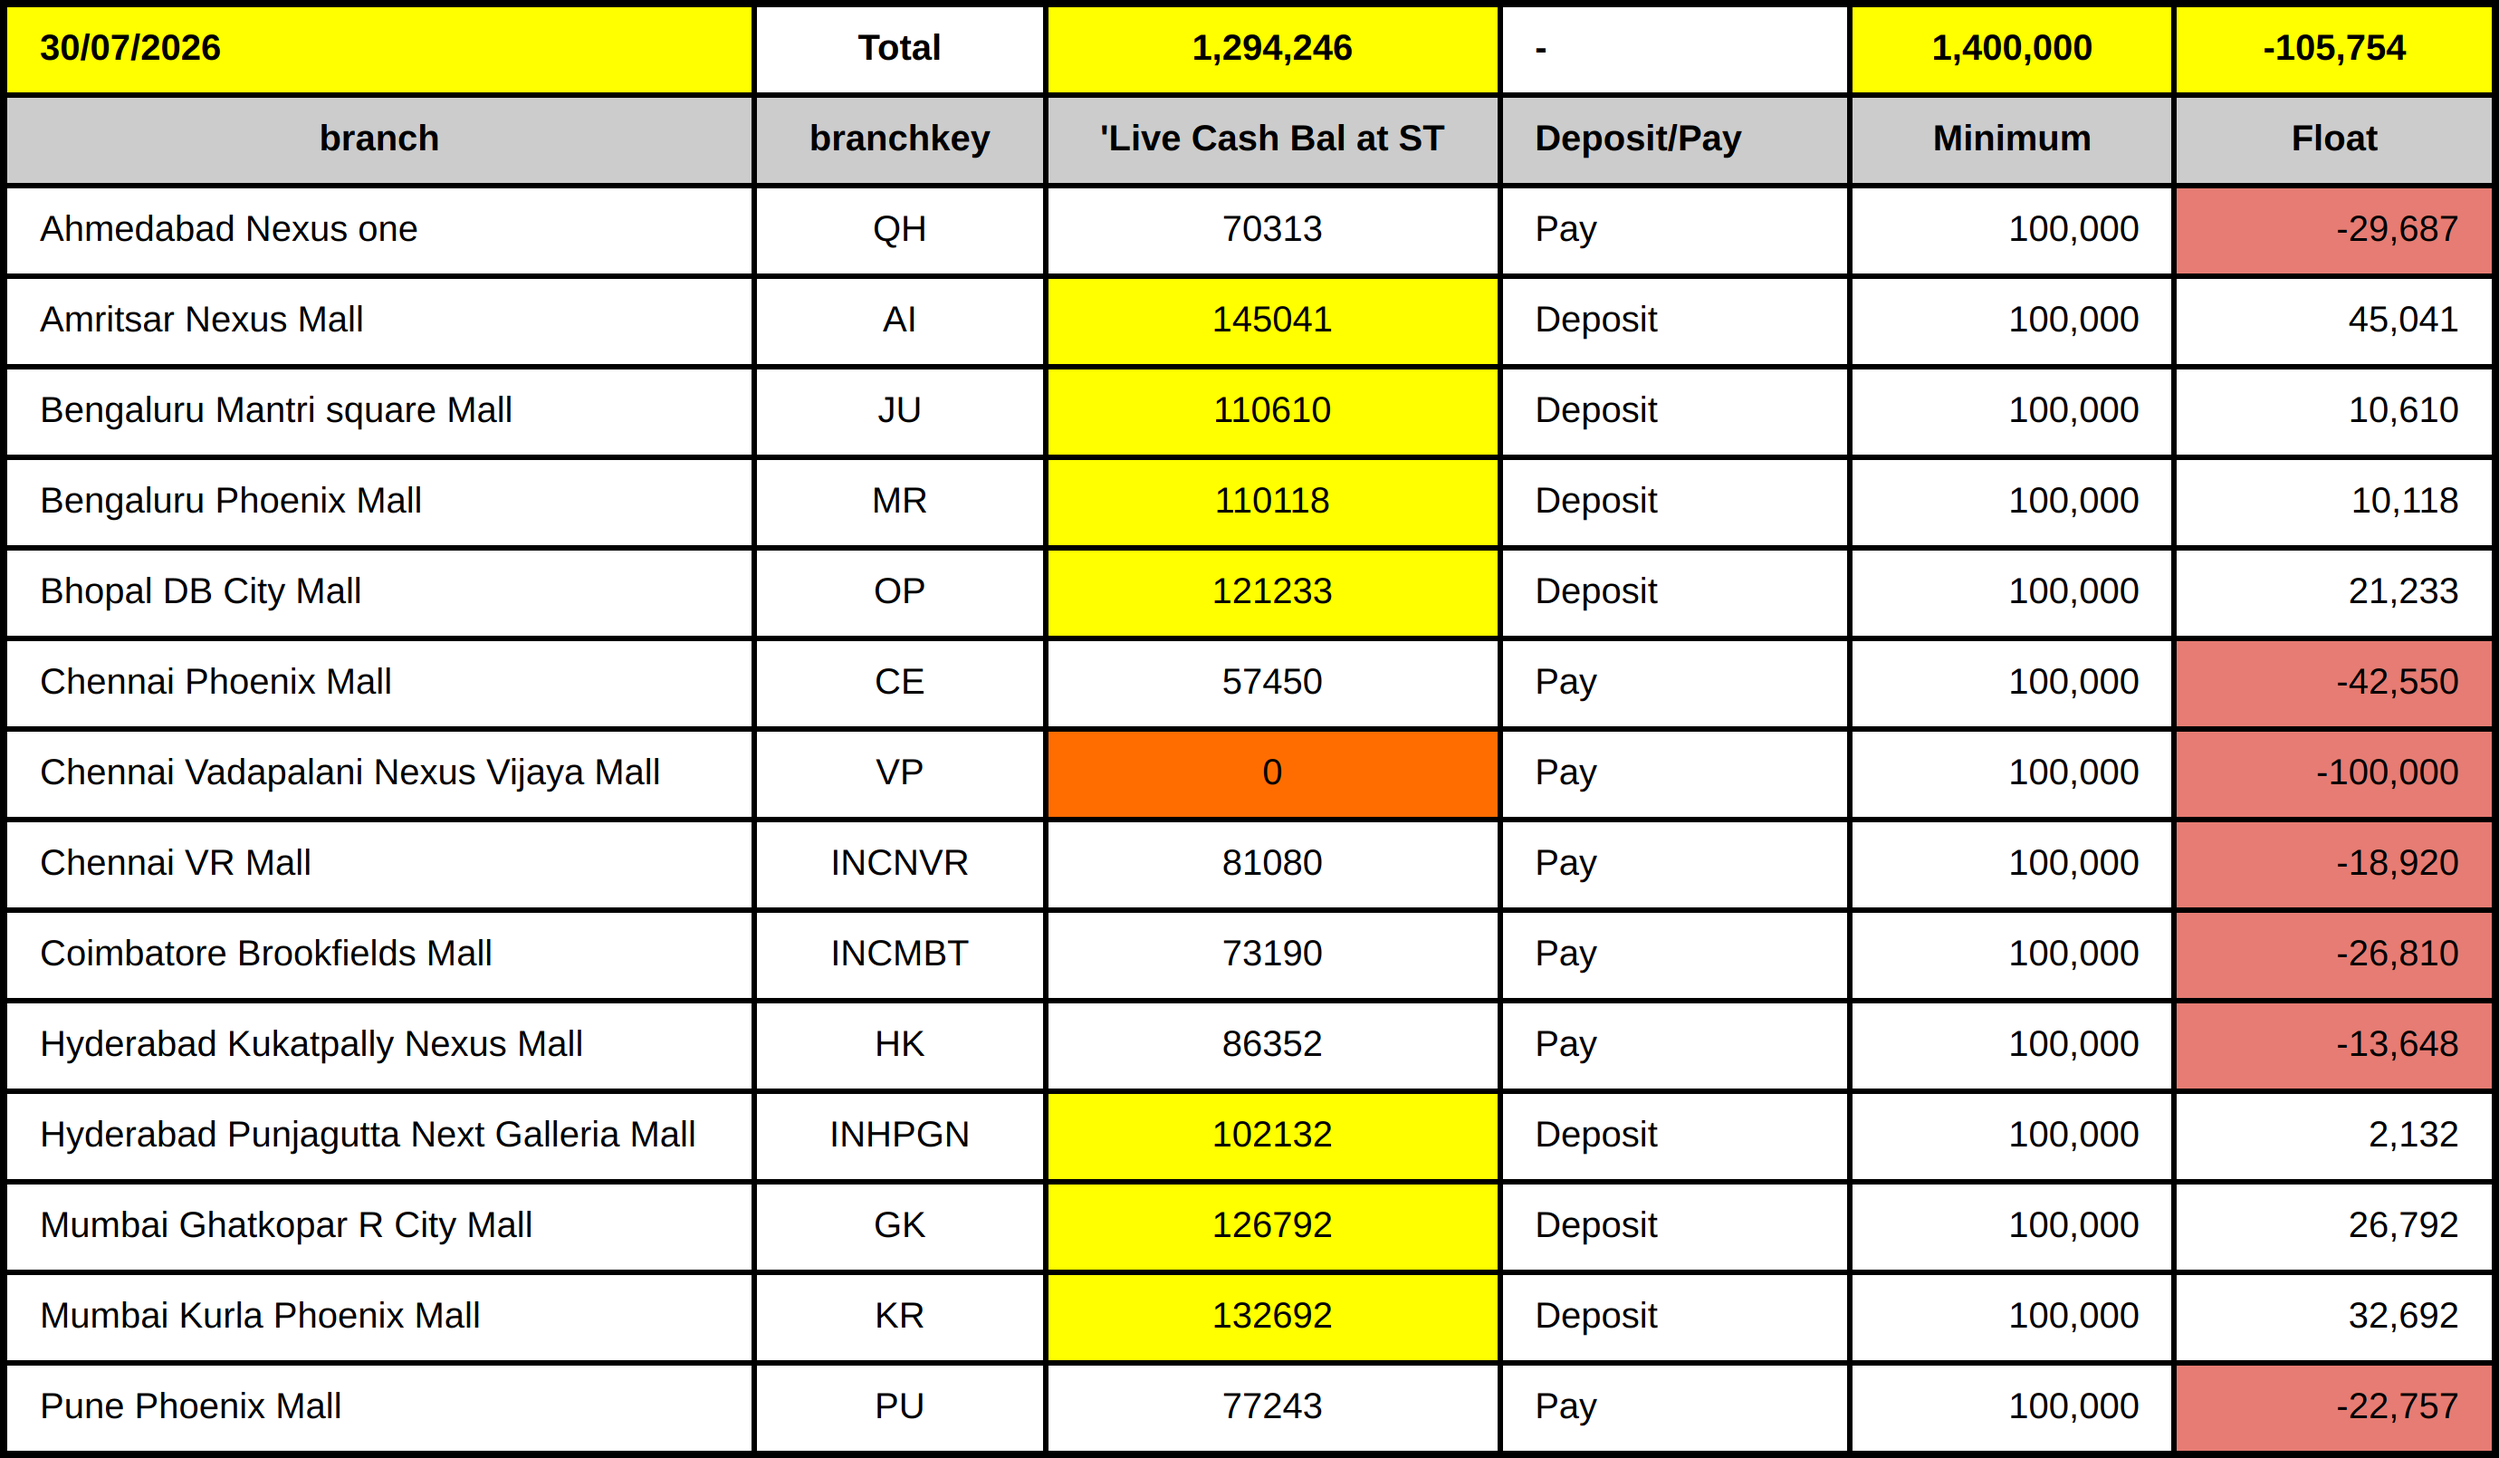
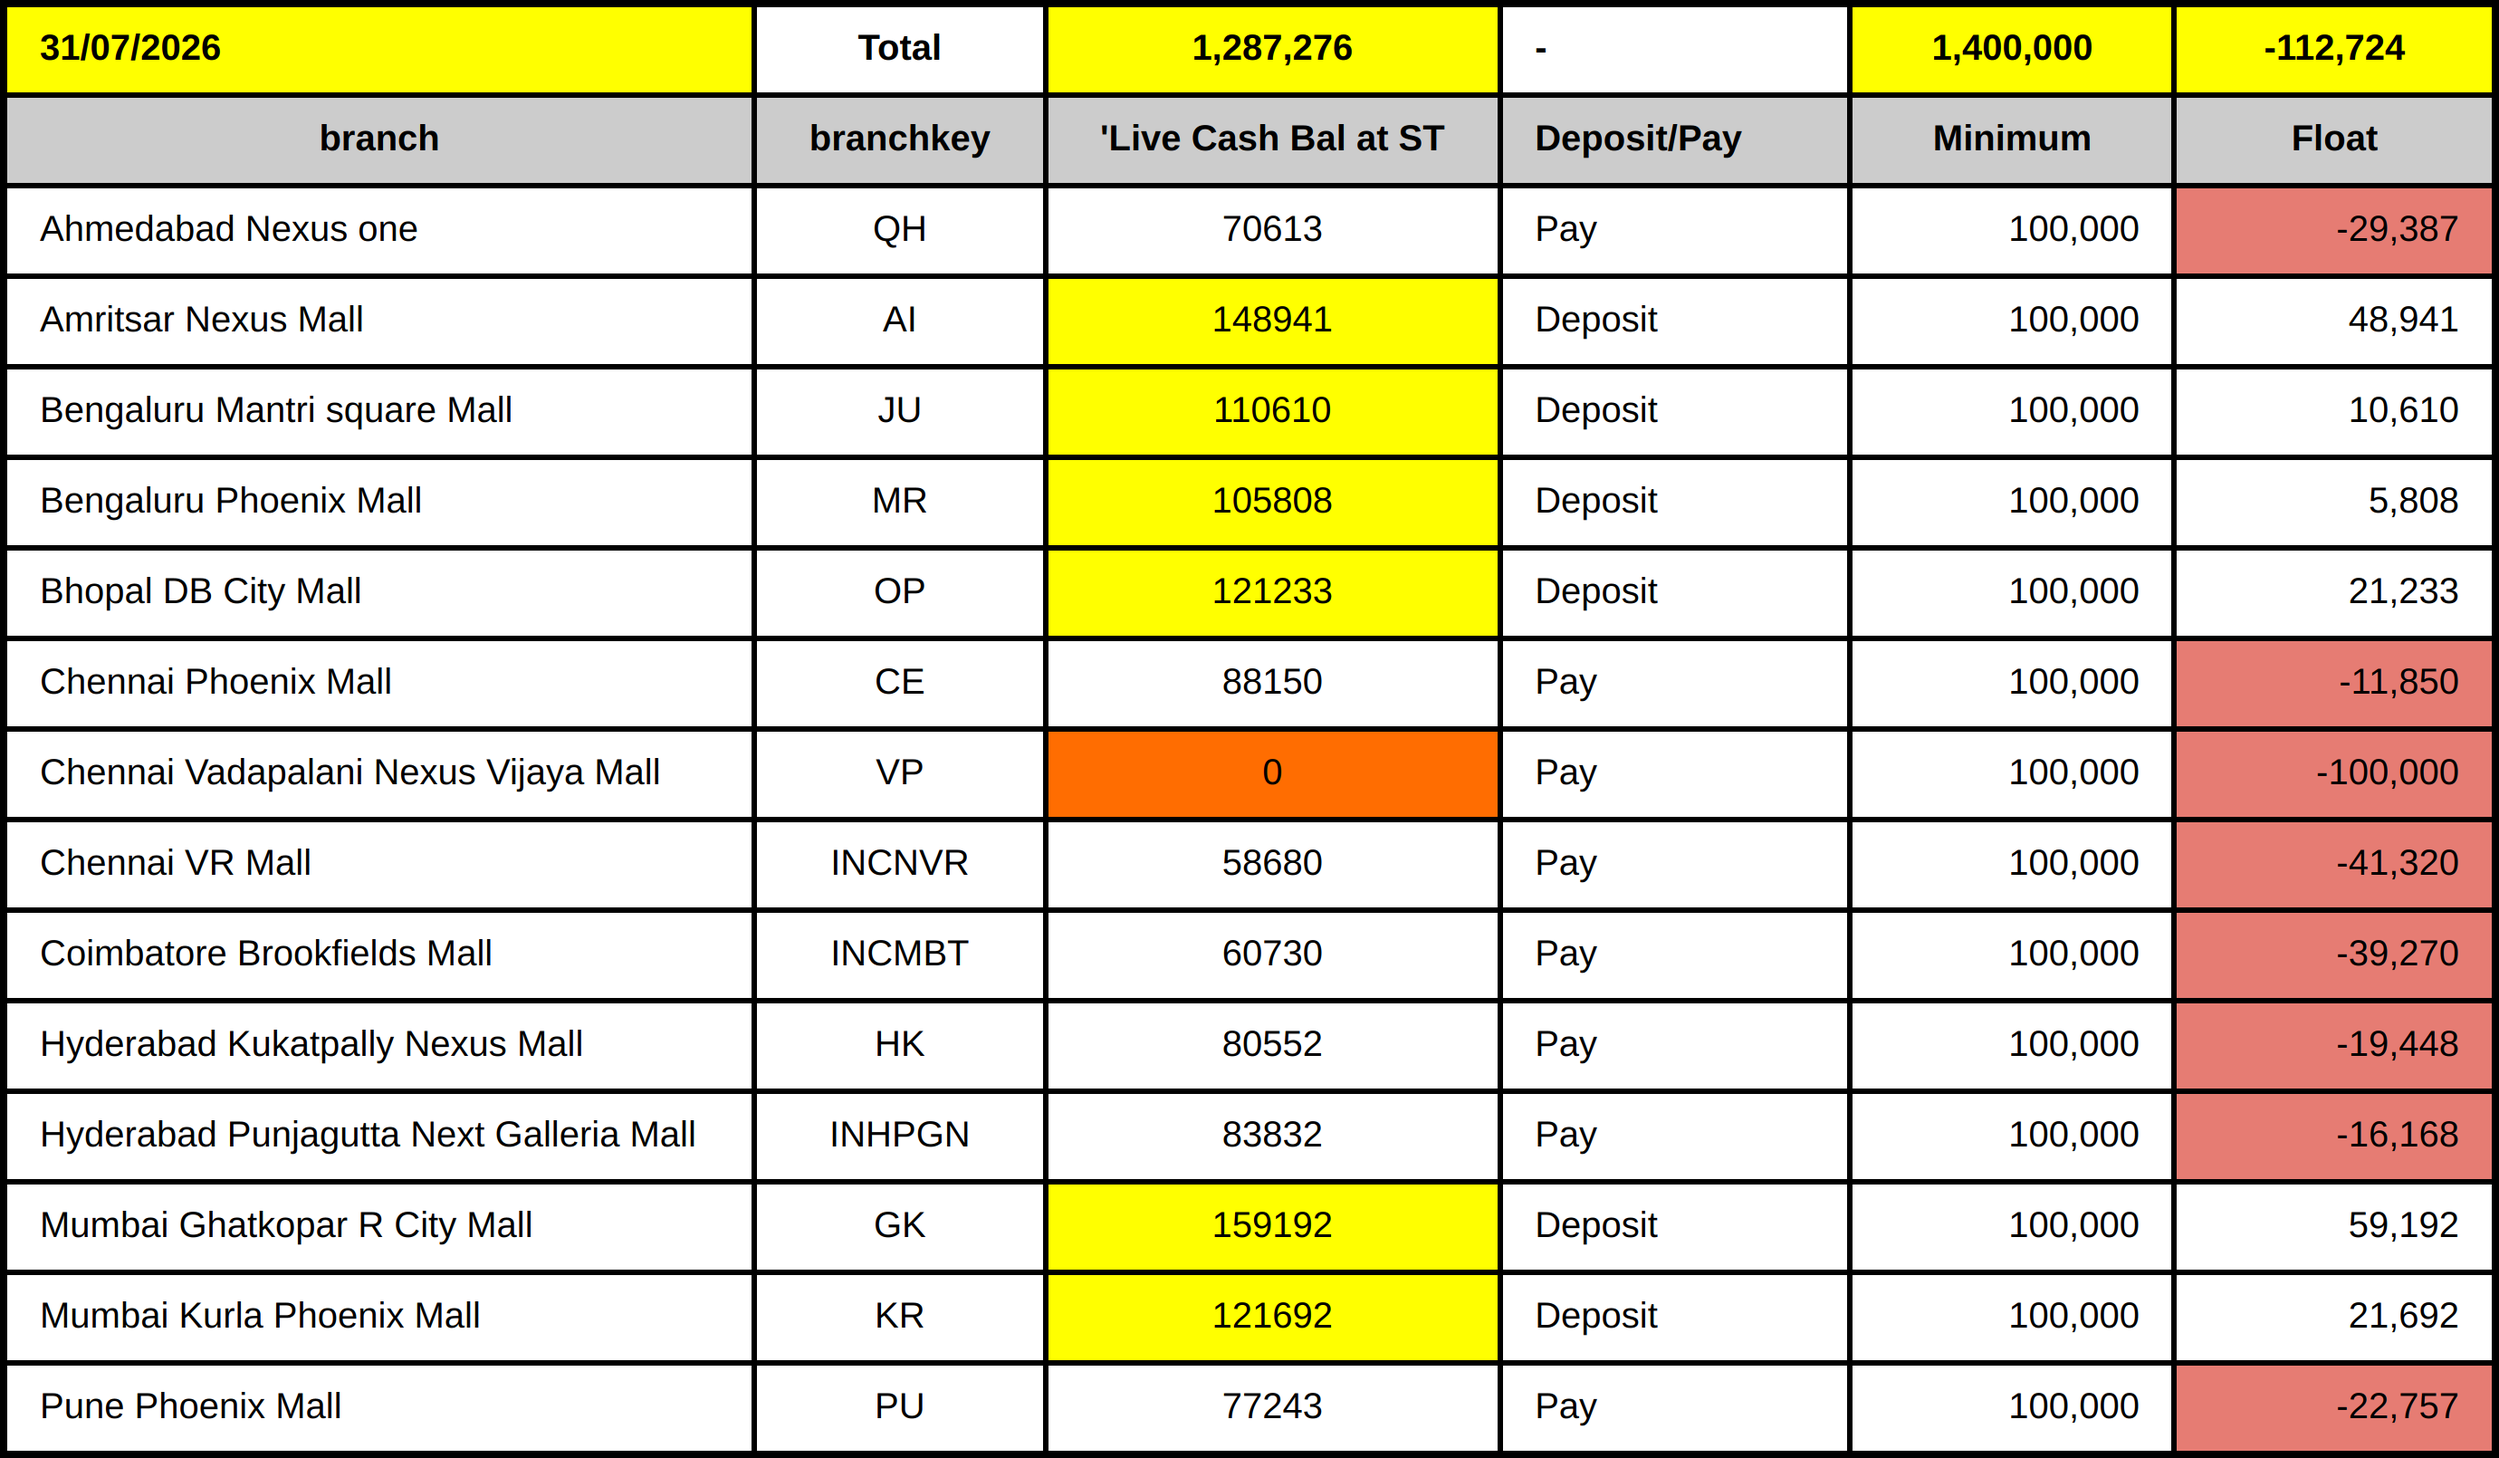
deploy: f19c4f27577916f721a0fc42479cfbbc19741ad5

diff --git a/table.html b/table.html
@@ -21,7 +21,7 @@
           font-family: Arial, sans-serif;
           font-size: 20px;
           white-space: nowrap;
-        ">30/07/2026</td>
+        ">31/07/2026</td>
       
         <td style="
           background-color: #ffffff;
@@ -49,7 +49,7 @@
           font-family: Arial, sans-serif;
           font-size: 20px;
           white-space: nowrap;
-        ">1,294,246</td>
+        ">1,287,276</td>
       
         <td style="
           background-color: #ffffff;
@@ -91,7 +91,7 @@
           font-family: Arial, sans-serif;
           font-size: 20px;
           white-space: nowrap;
-        ">-105,754</td>
+        ">-112,724</td>
       </tr><tr>
         <td style="
           background-color: #cccccc;
@@ -217,7 +217,7 @@
           font-family: Arial, sans-serif;
           font-size: 20px;
           white-space: nowrap;
-        ">70313</td>
+        ">70613</td>
       
         <td style="
           background-color: #ffffff;
@@ -259,7 +259,7 @@
           font-family: Arial, sans-serif;
           font-size: 20px;
           white-space: nowrap;
-        ">-29,687</td>
+        ">-29,387</td>
       </tr><tr>
         <td style="
           background-color: #ffffff;
@@ -301,7 +301,7 @@
           font-family: Arial, sans-serif;
           font-size: 20px;
           white-space: nowrap;
-        ">145041</td>
+        ">148941</td>
       
         <td style="
           background-color: #ffffff;
@@ -343,7 +343,7 @@
           font-family: Arial, sans-serif;
           font-size: 20px;
           white-space: nowrap;
-        ">45,041</td>
+        ">48,941</td>
       </tr><tr>
         <td style="
           background-color: #ffffff;
@@ -469,7 +469,7 @@
           font-family: Arial, sans-serif;
           font-size: 20px;
           white-space: nowrap;
-        ">110118</td>
+        ">105808</td>
       
         <td style="
           background-color: #ffffff;
@@ -511,7 +511,7 @@
           font-family: Arial, sans-serif;
           font-size: 20px;
           white-space: nowrap;
-        ">10,118</td>
+        ">5,808</td>
       </tr><tr>
         <td style="
           background-color: #ffffff;
@@ -637,7 +637,7 @@
           font-family: Arial, sans-serif;
           font-size: 20px;
           white-space: nowrap;
-        ">57450</td>
+        ">88150</td>
       
         <td style="
           background-color: #ffffff;
@@ -679,7 +679,7 @@
           font-family: Arial, sans-serif;
           font-size: 20px;
           white-space: nowrap;
-        ">-42,550</td>
+        ">-11,850</td>
       </tr><tr>
         <td style="
           background-color: #ffffff;
@@ -805,7 +805,7 @@
           font-family: Arial, sans-serif;
           font-size: 20px;
           white-space: nowrap;
-        ">81080</td>
+        ">58680</td>
       
         <td style="
           background-color: #ffffff;
@@ -847,7 +847,7 @@
           font-family: Arial, sans-serif;
           font-size: 20px;
           white-space: nowrap;
-        ">-18,920</td>
+        ">-41,320</td>
       </tr><tr>
         <td style="
           background-color: #ffffff;
@@ -889,7 +889,7 @@
           font-family: Arial, sans-serif;
           font-size: 20px;
           white-space: nowrap;
-        ">73190</td>
+        ">60730</td>
       
         <td style="
           background-color: #ffffff;
@@ -931,7 +931,7 @@
           font-family: Arial, sans-serif;
           font-size: 20px;
           white-space: nowrap;
-        ">-26,810</td>
+        ">-39,270</td>
       </tr><tr>
         <td style="
           background-color: #ffffff;
@@ -973,7 +973,7 @@
           font-family: Arial, sans-serif;
           font-size: 20px;
           white-space: nowrap;
-        ">86352</td>
+        ">80552</td>
       
         <td style="
           background-color: #ffffff;
@@ -1015,7 +1015,7 @@
           font-family: Arial, sans-serif;
           font-size: 20px;
           white-space: nowrap;
-        ">-13,648</td>
+        ">-19,448</td>
       </tr><tr>
         <td style="
           background-color: #ffffff;
@@ -1046,7 +1046,7 @@
         ">INHPGN</td>
       
         <td style="
-          background-color: #ffff00;
+          background-color: #ffffff;
           color: #000000;
           font-weight: normal;
           font-style: normal;
@@ -1057,7 +1057,7 @@
           font-family: Arial, sans-serif;
           font-size: 20px;
           white-space: nowrap;
-        ">102132</td>
+        ">83832</td>
       
         <td style="
           background-color: #ffffff;
@@ -1071,7 +1071,7 @@
           font-family: Arial, sans-serif;
           font-size: 20px;
           white-space: nowrap;
-        ">Deposit</td>
+        ">Pay</td>
       
         <td style="
           background-color: #ffffff;
@@ -1088,7 +1088,7 @@
         ">100,000</td>
       
         <td style="
-          background-color: #ffffff;
+          background-color: #e67c73;
           color: #000000;
           font-weight: normal;
           font-style: normal;
@@ -1099,7 +1099,7 @@
           font-family: Arial, sans-serif;
           font-size: 20px;
           white-space: nowrap;
-        ">2,132</td>
+        ">-16,168</td>
       </tr><tr>
         <td style="
           background-color: #ffffff;
@@ -1141,7 +1141,7 @@
           font-family: Arial, sans-serif;
           font-size: 20px;
           white-space: nowrap;
-        ">126792</td>
+        ">159192</td>
       
         <td style="
           background-color: #ffffff;
@@ -1183,7 +1183,7 @@
           font-family: Arial, sans-serif;
           font-size: 20px;
           white-space: nowrap;
-        ">26,792</td>
+        ">59,192</td>
       </tr><tr>
         <td style="
           background-color: #ffffff;
@@ -1225,7 +1225,7 @@
           font-family: Arial, sans-serif;
           font-size: 20px;
           white-space: nowrap;
-        ">132692</td>
+        ">121692</td>
       
         <td style="
           background-color: #ffffff;
@@ -1267,7 +1267,7 @@
           font-family: Arial, sans-serif;
           font-size: 20px;
           white-space: nowrap;
-        ">32,692</td>
+        ">21,692</td>
       </tr><tr>
         <td style="
           background-color: #ffffff;
